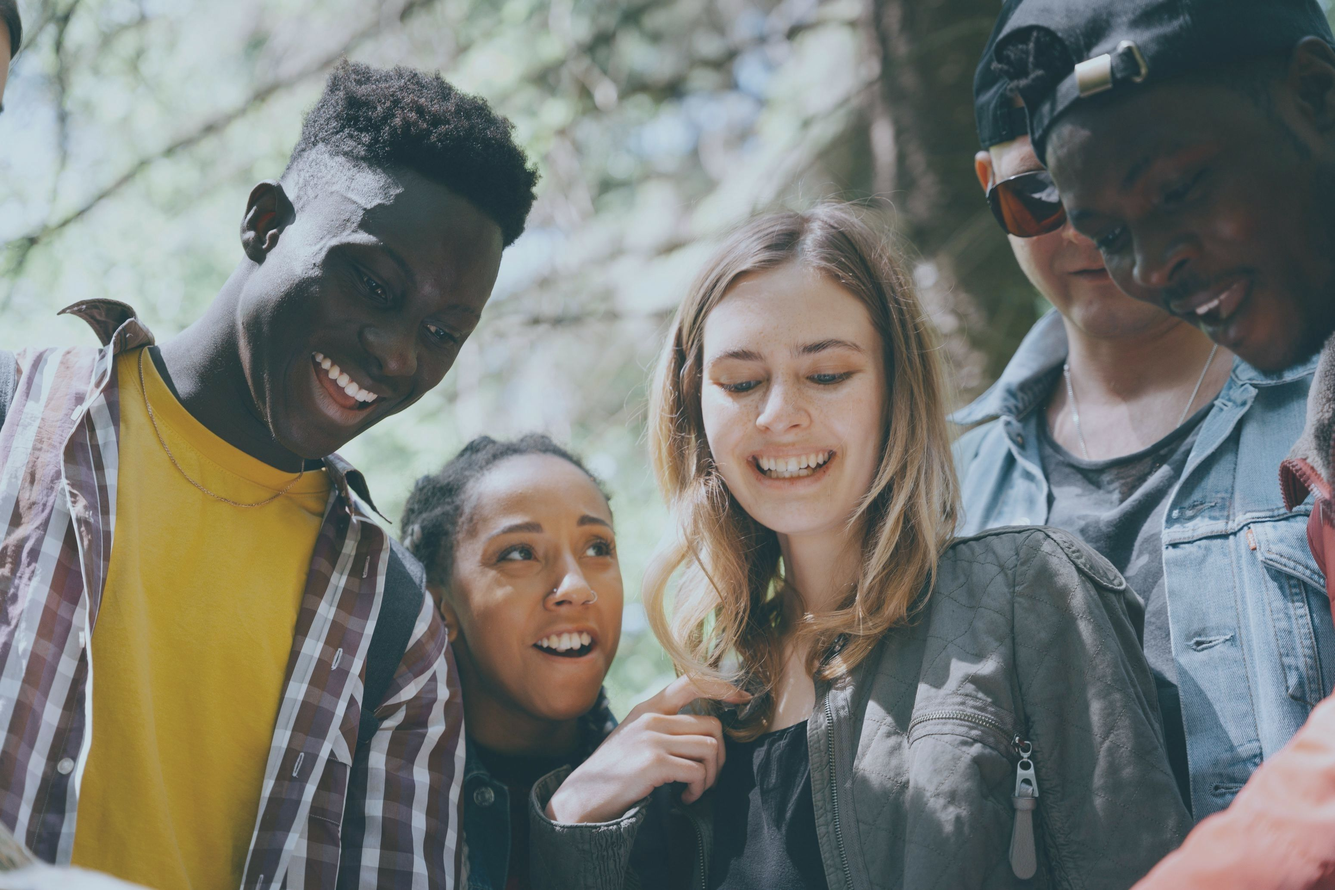
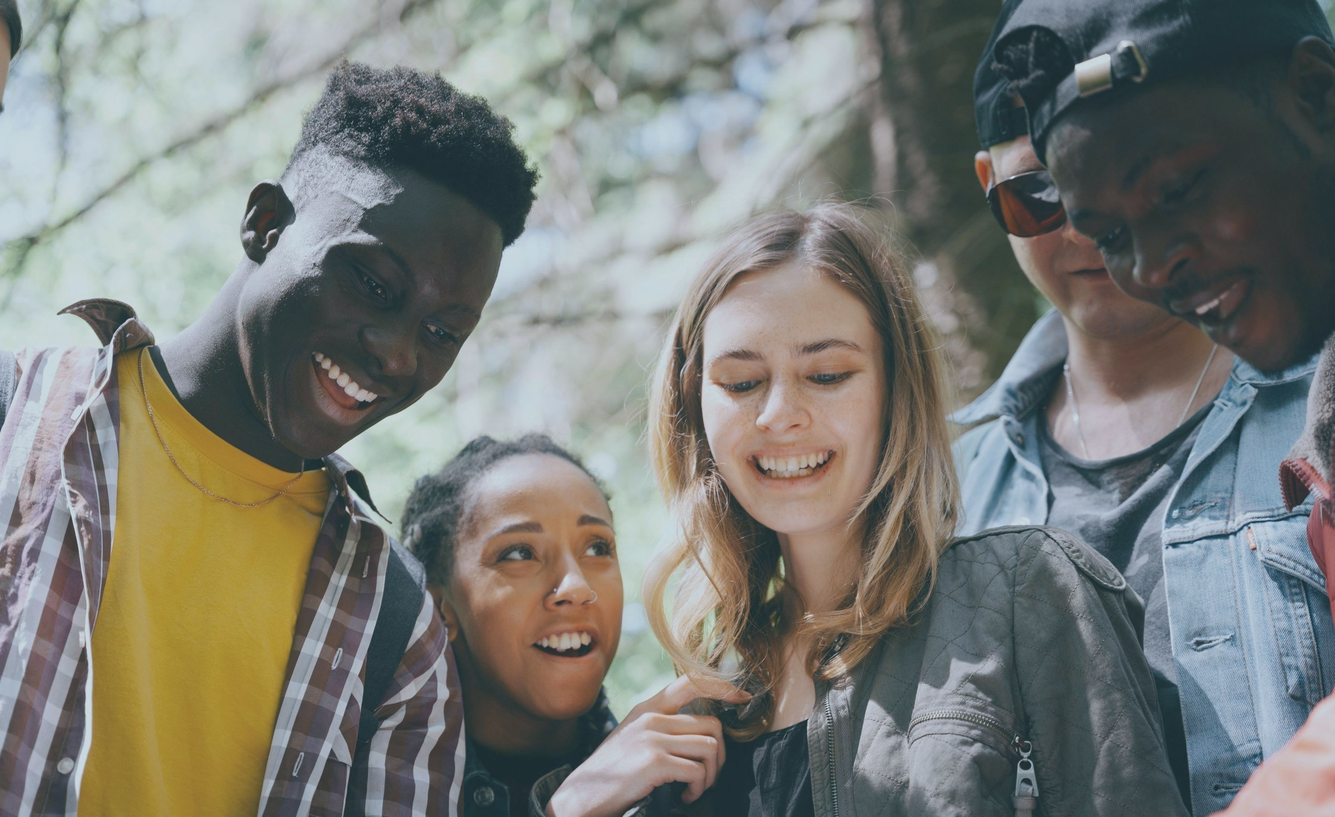
Mental image

diff --git a/Homepage/HomePage.html b/Homepage/HomePage.html
@@ -13,7 +13,7 @@
     </div>
 
     <div class="Heroimage">
-       <img src="/Users/hannahwilmot/Desktop/%20bert/Y12 DIGI%20(2.8)/Y12-DIGITAL-2.8/Y12%20DIGI%20Image%20Resoruces%20/Hero%20Image%20(edited).jpg" width="1440" height="700" alt="placeholder image" >
+       <img src="/Users/hannahwilmot/Desktop/%20bert/Y12%20DIGI%20(2.8)/Y12-DIGITAL-2.8/Y12%20DIGI%20Image%20Resoruces%20/Hero%20Image%20(edited).jpg" width="1440" height="700" alt="placeholder image" >
     </div>
   </div>
 
@@ -30,7 +30,7 @@
        </div>
 
        <div class="Mental">
-         <img id="Mentalimage" src=""> 
+         <img id="Mentalimage" src="/Users/hannahwilmot/Desktop/%20bert/Y12%20DIGI%20(2.8)/Y12-DIGITAL-2.8/Y12%20DIGI%20Image%20Resoruces%20/mental%20image%203.jpg" width="650" height="400" alt="Minfulness image"> 
        </div>
        
        <div class="Sleep">

diff --git a/Homepage/HomePage.CSS b/Homepage/HomePage.CSS
@@ -32,7 +32,7 @@
 
 .PageBlurbs{
     width: 1440px;
-    height: 1300px;
+    height: 1700px;
     margin: auto;
     align-content: center;
 }
@@ -53,6 +53,15 @@
    position: relative;
    top:-370px;  
    float: right;
+}
+
+#Mentalimage{
+   max-width: 650px;
+   max-height: 400px; 
+   margin: 30px;
+   position: relative;
+   top:-70px;
+   float: left;
 }
 
 .Footer{
